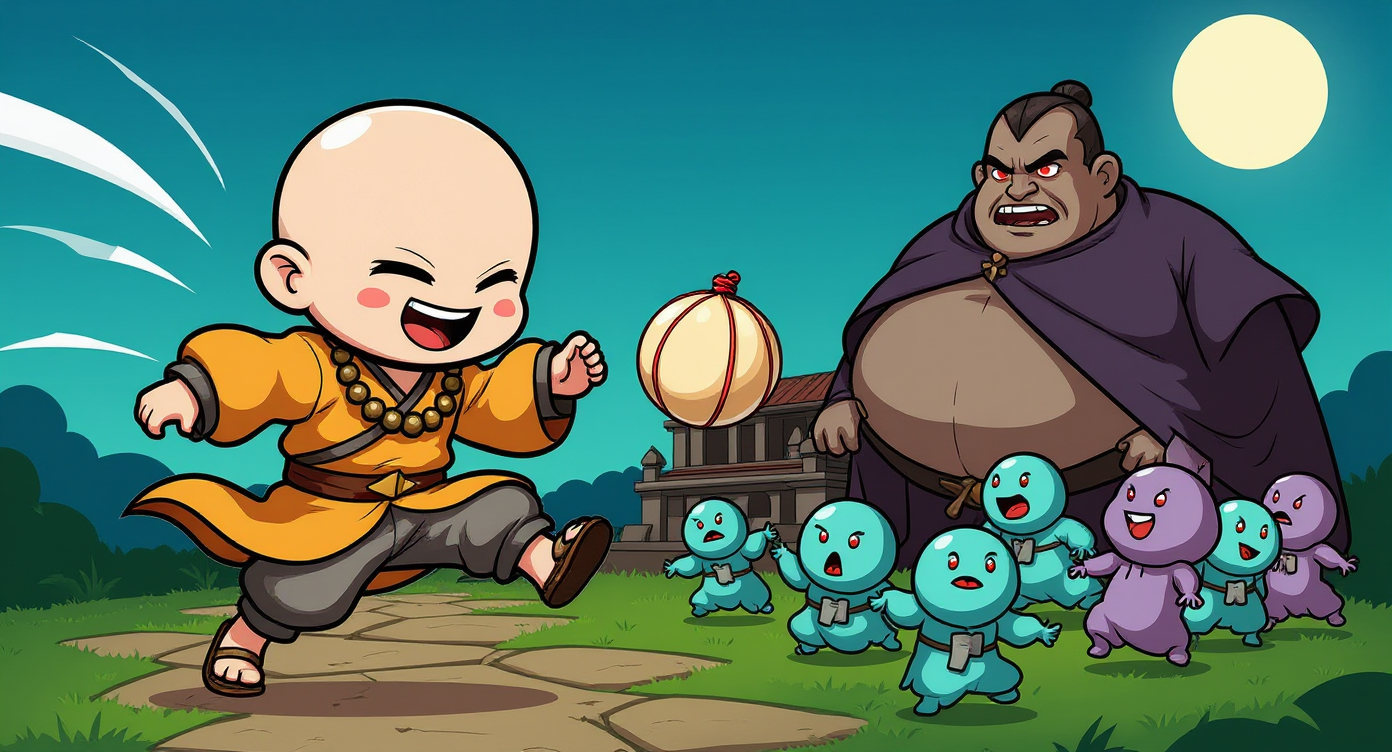
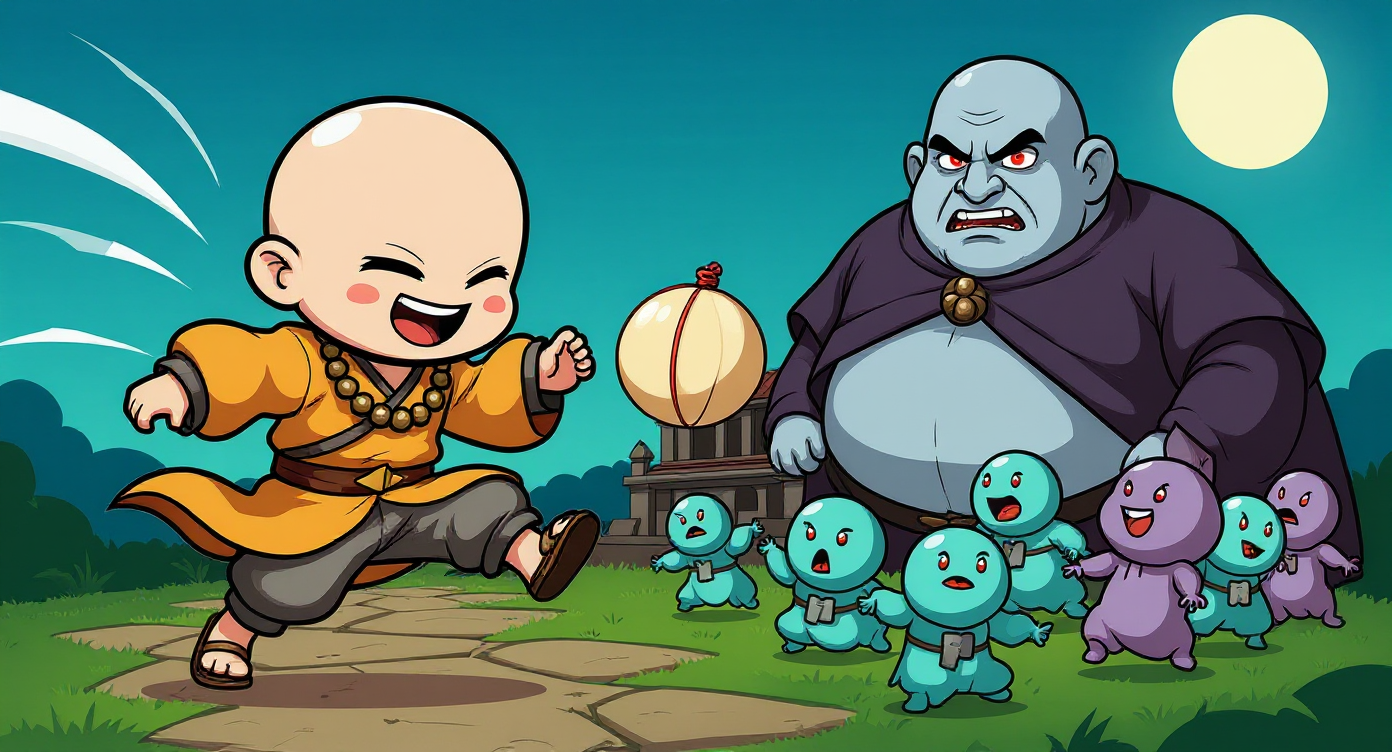
Landscape cover: the boss is a bald fallen monk

diff --git a/art/monk/store/README.md b/art/monk/store/README.md
@@ -13,3 +13,7 @@ The pictures carry no text; the logo (`logo_en.png`, `logo_zh.png`, lettered by
 Round 1 (`r1/*_fire.png`) edited the plain 4:3 hero picture: every cover came out 4:3, and a
 "glowing golden-red ball" became a fireball. The prompts now describe the real ball (cream leather,
 red cords, "not fire") and the ball is already on the canvas.
+
+The landscape boss first came out with a topknot and brown skin (`r1/cover_landscape_topknot.png`);
+`cover_landscape.png` is that cover edited with `cover_landscape_boss.txt` into a bald, grey-blue
+fallen monk.
